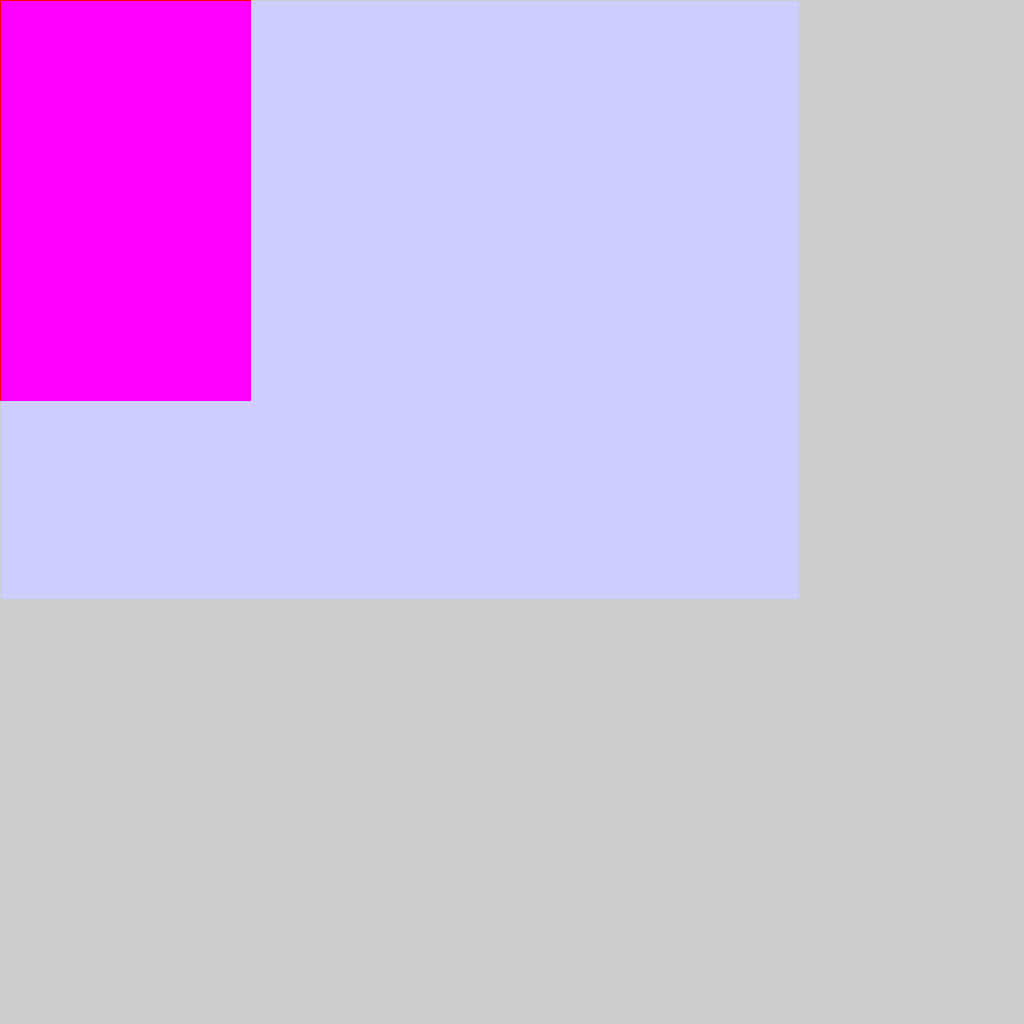
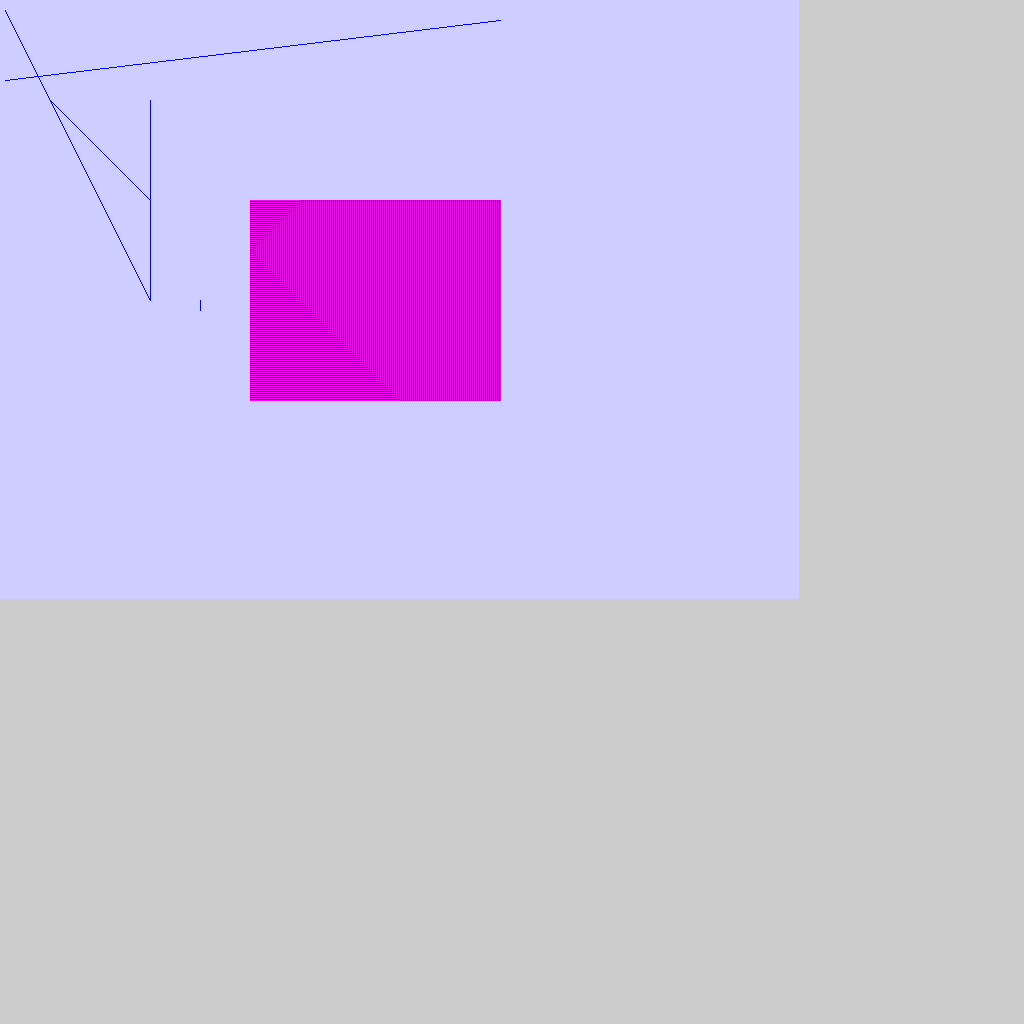
Line and Triangle working

Changed region(s): [[0.0, 0.0, 0.5, 0.4062]]

diff --git a/src/CatPictureApp.cpp b/src/CatPictureApp.cpp
@@ -52,7 +52,7 @@ class CatPictureApp : public AppBasic {
 
 	// Creates a basic line with starting point (x1, y1) and ending point (x2, y2) with color c1.
 	// This satisfies Requirement A.3 (line).
-	void basicLine (uint8_t* pixels, int x1, int y1, int x2, int y2, Color8u c1);
+	void basicLine (uint8_t* pixels, int x1, int y1, int x2, int y2);
 
 	// Creates a basic triangle with three points (x1, y1), (x2, y2), (x3, y3) with color c1.
 	// This satisfies Requirement A.7 (triangle).
@@ -106,8 +106,8 @@ void CatPictureApp::basicRectangle(uint8_t* pixels, int x1, int x2, int y1, int 
 void CatPictureApp::blueTintImage(uint8_t* pixels) 
 {
 	int x,y;
-	for( y=1;y<kAppHeight-1;y++){
-		for( x=1;x<kAppWidth-1;x++){
+	for( y=0;y<kAppHeight-1;y++){
+		for( x=0;x<kAppWidth-1;x++){
 		  pixels[3*(x + y*kTextureSize)+2] = 255;
 
 		}
@@ -116,16 +116,181 @@ void CatPictureApp::blueTintImage(uint8_t* pixels)
 	
 }
 
-void CatPictureApp::basicLine(uint8_t* pixels, int x1, int y1, int x2, int y2, Color8u c1)
+void CatPictureApp::basicLine(uint8_t* pixels, int x1, int y1, int x2, int y2)
 {
+	//Determines the starting and ending coordinates for the line
+	int startx = (x1 < x2) ? x1 : x2;
+	int endx = (x1 < x2) ? x2 : x1;
+	int starty = (y1 < y2) ? y1 : y2;
+	int endy = (y1 < y2) ? y2 : y1;
+	
+	//Boundary Checking
+	if (endx < 0) return;
+	if (endy < 0) return;
+	if (startx >= kAppWidth) return;
+	if (starty >= kAppHeight) return;
+	if (endx >= kAppWidth) endx = kAppWidth - 1;
+	if (endy >= kAppHeight) endy = kAppHeight - 1;
+
+int F, x, y;
+
+    // Handle trivial cases separately for algorithm speed up.
+    // Trivial case 1: m = +/-INF (Vertical line)
+    if (x1 == x2)
+    {
+        if (y1 > y2)  // Swap y-coordinates if p1 is above p2
+        {
+            swap(y1, y2);
+        }
+
+        x = x1;
+        y = y1;
+        while (y <= y2)
+        {
+            pixels[3*(x + y*kTextureSize)] = 0;
+			pixels[3*(x + y*kTextureSize)+1] = 0;
+			pixels[3*(x + y*kTextureSize)+2] = 0;
+            y++;
+        }
+        return;
+    }
+    // Trivial case 2: m = 0 (Horizontal line)
+    else if (y1 == y2)
+    {
+        x = x1;
+        y = y1;
+
+        while (x <= x2)
+        {
+            pixels[3*(x + y*kTextureSize)] = 0;
+			pixels[3*(x + y*kTextureSize)+1] = 0;
+			pixels[3*(x + y*kTextureSize)+2] = 0;
+            x++;
+        }
+        return;
+    }
 
 
+    int dy            = y2 - y1;  // y-increment from p1 to p2
+    int dx            = x2 - x1;  // x-increment from p1 to p2
+    int dy2           = (dy << 1);  // dy << 1 == 2*dy
+    int dx2           = (dx << 1);
+    int dy2_minus_dx2 = dy2 - dx2;  // precompute constant for speed up
+    int dy2_plus_dx2  = dy2 + dx2;
+
+
+    if (dy >= 0)    // m >= 0
+    {
+        // Case 1: 0 <= m <= 1 (Original case)
+        if (dy <= dx)   
+        {
+            F = dy2 - dx;    // initial F
+
+            x = x1;
+            y = y1;
+            while (x <= x2)
+            {
+            pixels[3*(x + y*kTextureSize)] = 0;
+			pixels[3*(x + y*kTextureSize)+1] = 0;
+			pixels[3*(x + y*kTextureSize)+2] = 0;
+                if (F <= 0)
+                {
+                    F += dy2;
+                }
+                else
+                {
+                    y++;
+                    F += dy2_minus_dx2;
+                }
+                x++;
+            }
+        }
+        // Case 2: 1 < m < INF (Mirror about y=x line
+        // replace all dy by dx and dx by dy)
+        else
+        {
+            F = dx2 - dy;    // initial F
+
+            y = y1;
+            x = x1;
+            while (y <= y2)
+            {
+            pixels[3*(x + y*kTextureSize)] = 0;
+			pixels[3*(x + y*kTextureSize)+1] = 0;
+			pixels[3*(x + y*kTextureSize)+2] = 0;
+                if (F <= 0)
+                {
+                    F += dx2;
+                }
+                else
+                {
+                    x++;
+                    F -= dy2_minus_dx2;
+                }
+                y++;
+            }
+        }
+    }
+    else    // m < 0
+    {
+        // Case 3: -1 <= m < 0 (Mirror about x-axis, replace all dy by -dy)
+        if (dx >= -dy)
+        {
+            F = -dy2 - dx;    // initial F
+
+            x = x1;
+            y = y1;
+            while (x <= x2)
+            {
+            pixels[3*(x + y*kTextureSize)] = 0;
+			pixels[3*(x + y*kTextureSize)+1] = 0;
+			pixels[3*(x + y*kTextureSize)+2] = 0;
+                if (F <= 0)
+                {
+                    F -= dy2;
+                }
+                else
+                {
+                    y--;
+                    F -= dy2_plus_dx2;
+                }
+                x++;
+            }
+        }
+        // Case 4: -INF < m < -1 (Mirror about x-axis and mirror 
+        // about y=x line, replace all dx by -dy and dy by dx)
+        else    
+        {
+            F = dx2 + dy;    // initial F
+
+            y = y1;
+            x = x1;
+            while (y >= y2)
+            {
+            pixels[3*(x + y*kTextureSize)] = 0;
+			pixels[3*(x + y*kTextureSize)+1] = 0;
+			pixels[3*(x + y*kTextureSize)+2] = 0;
+                if (F <= 0)
+                {
+                    F += dx2;
+                }
+                else
+                {
+                    x++;
+                    F += dy2_plus_dx2;
+                }
+                y--;
+            }
+        }
+    }
 
 }
 
 void CatPictureApp::basicTriangle (uint8_t* pixels, int x1, int y1, int x2, int y2, int x3, int y3, Color8u c1)
 {
-
+	basicLine(pixels, x1, y1, x2, y2);
+	basicLine(pixels, x2, y2, x3, y3);
+	basicLine(pixels, x3, y3, x1, y1);
 }
 
 void CatPictureApp::setup()
@@ -149,7 +314,11 @@ void CatPictureApp::update()
 
 	Color8u rectFill = Color8u(255,0,0);
 	Color8u rectFill2 = Color8u(0,0,255);
-	basicRectangle(dataArray, 0, 250, 0, 400, rectFill, rectFill2); 
+	basicRectangle(dataArray, 500, 250, 400, 200, rectFill, rectFill2); 
+	basicLine(dataArray,5,10,150,300);
+	basicLine(dataArray,5,80,500,20);
+	basicLine(dataArray,200,300,150,310);
+	basicTriangle(dataArray, 50, 100, 150, 200, 150, 300, rectFill);
 
 	blueTintImage(dataArray);
 
